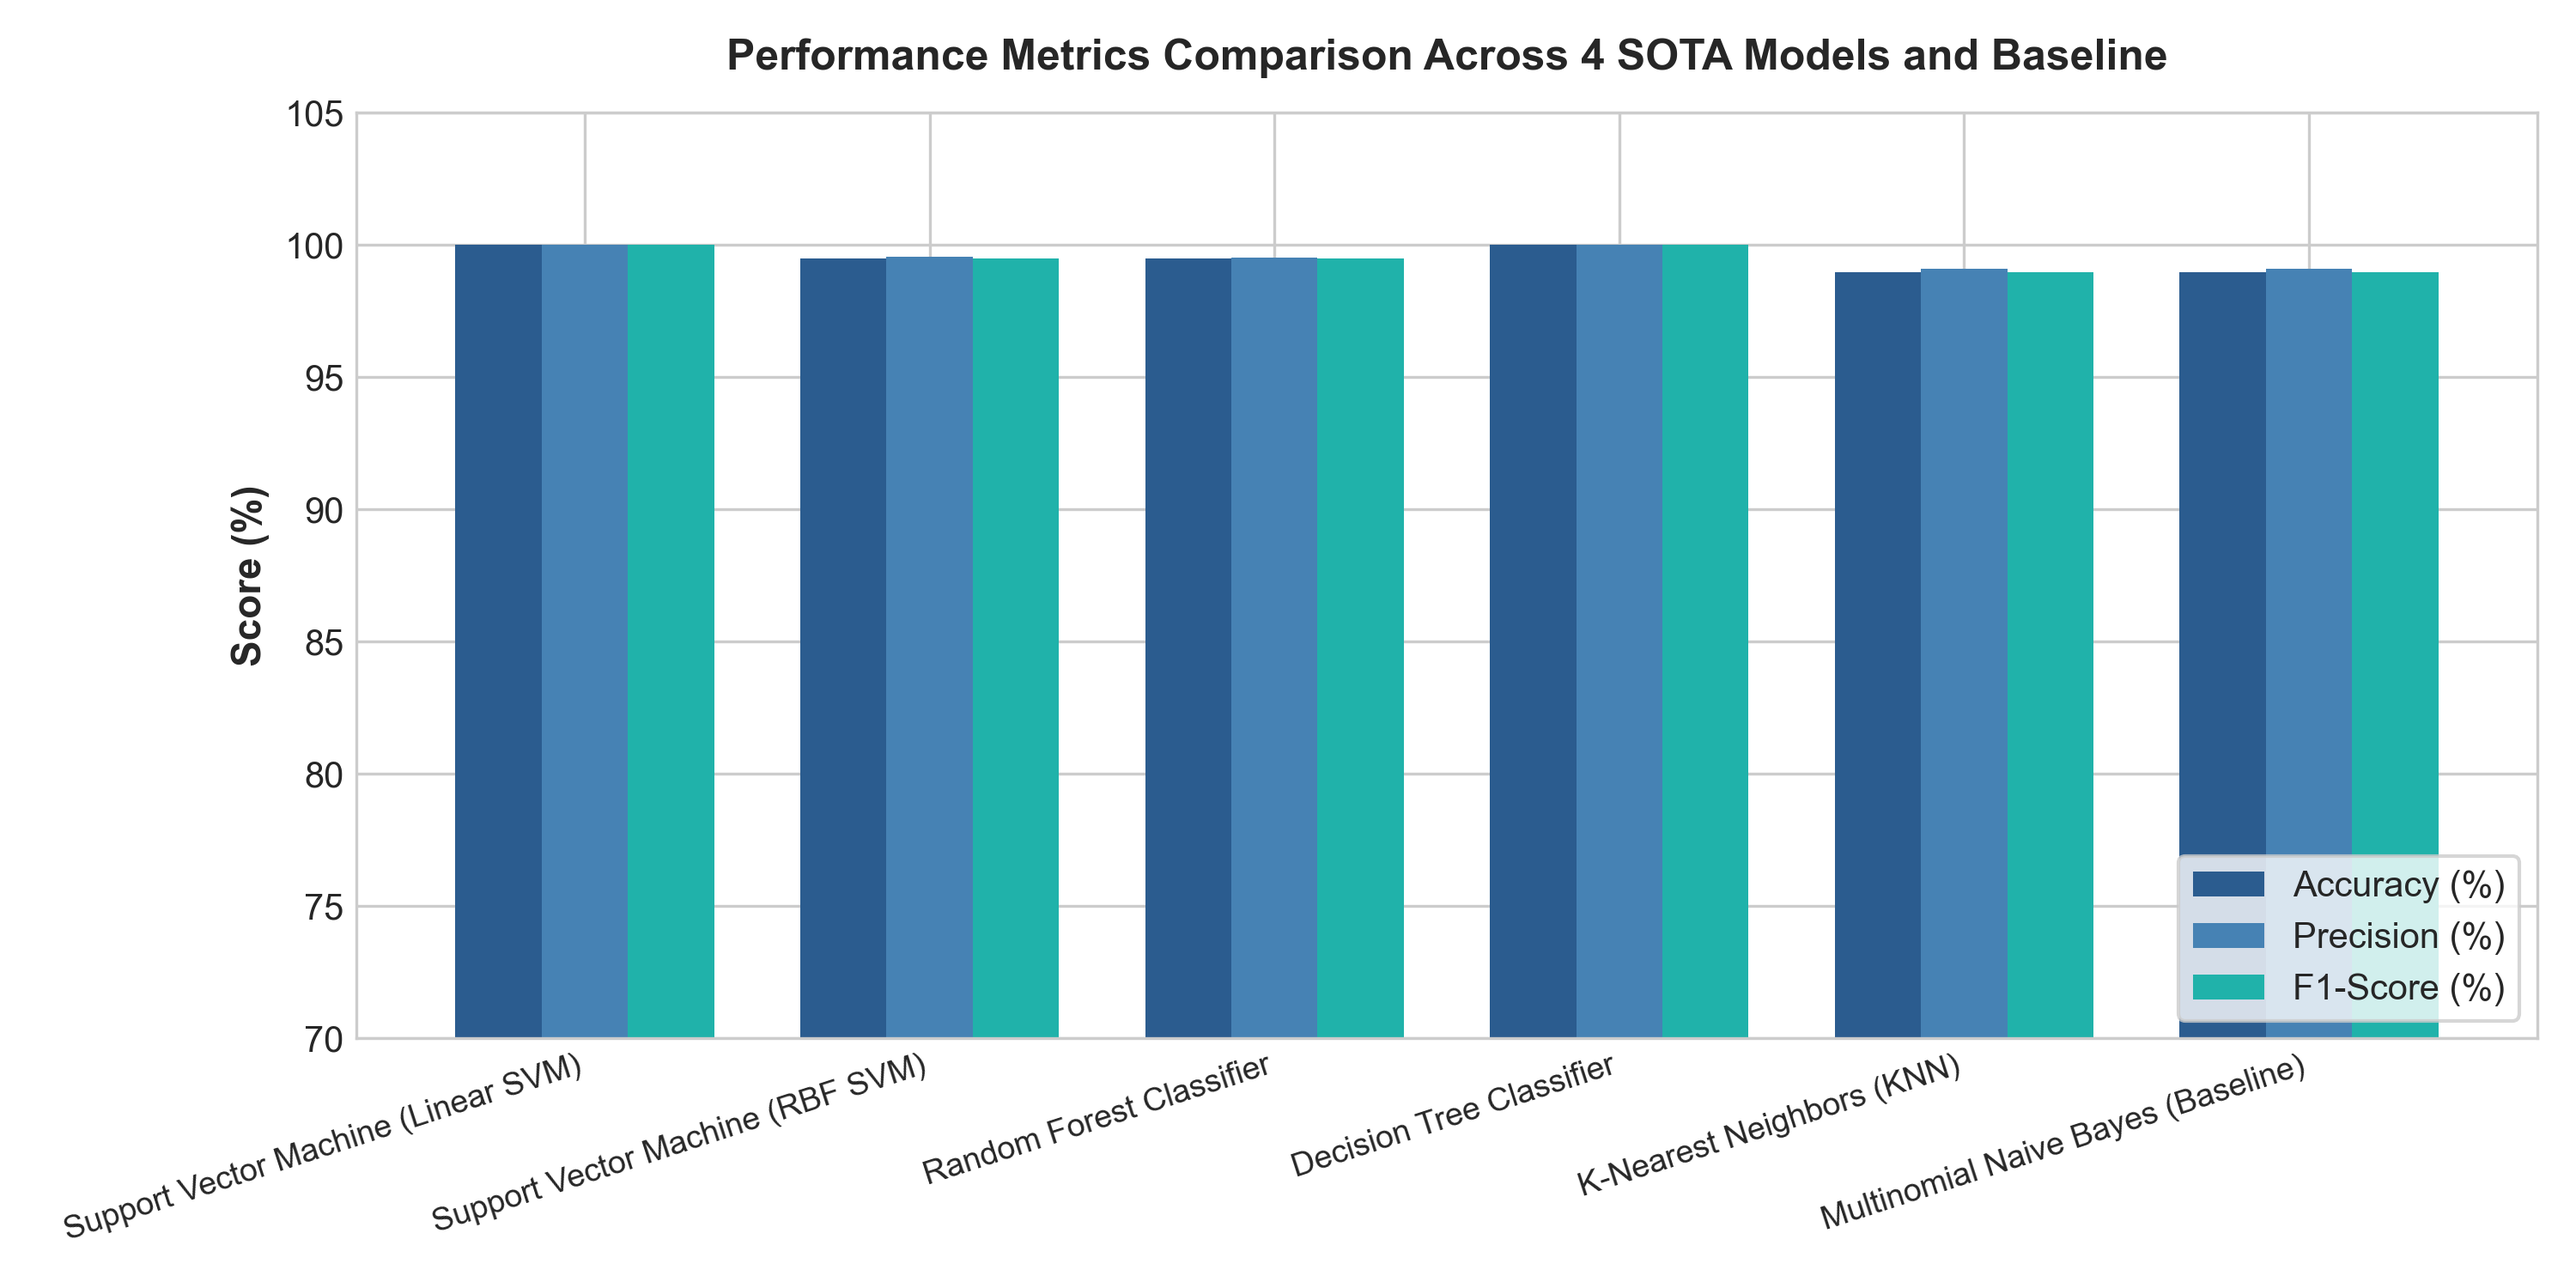
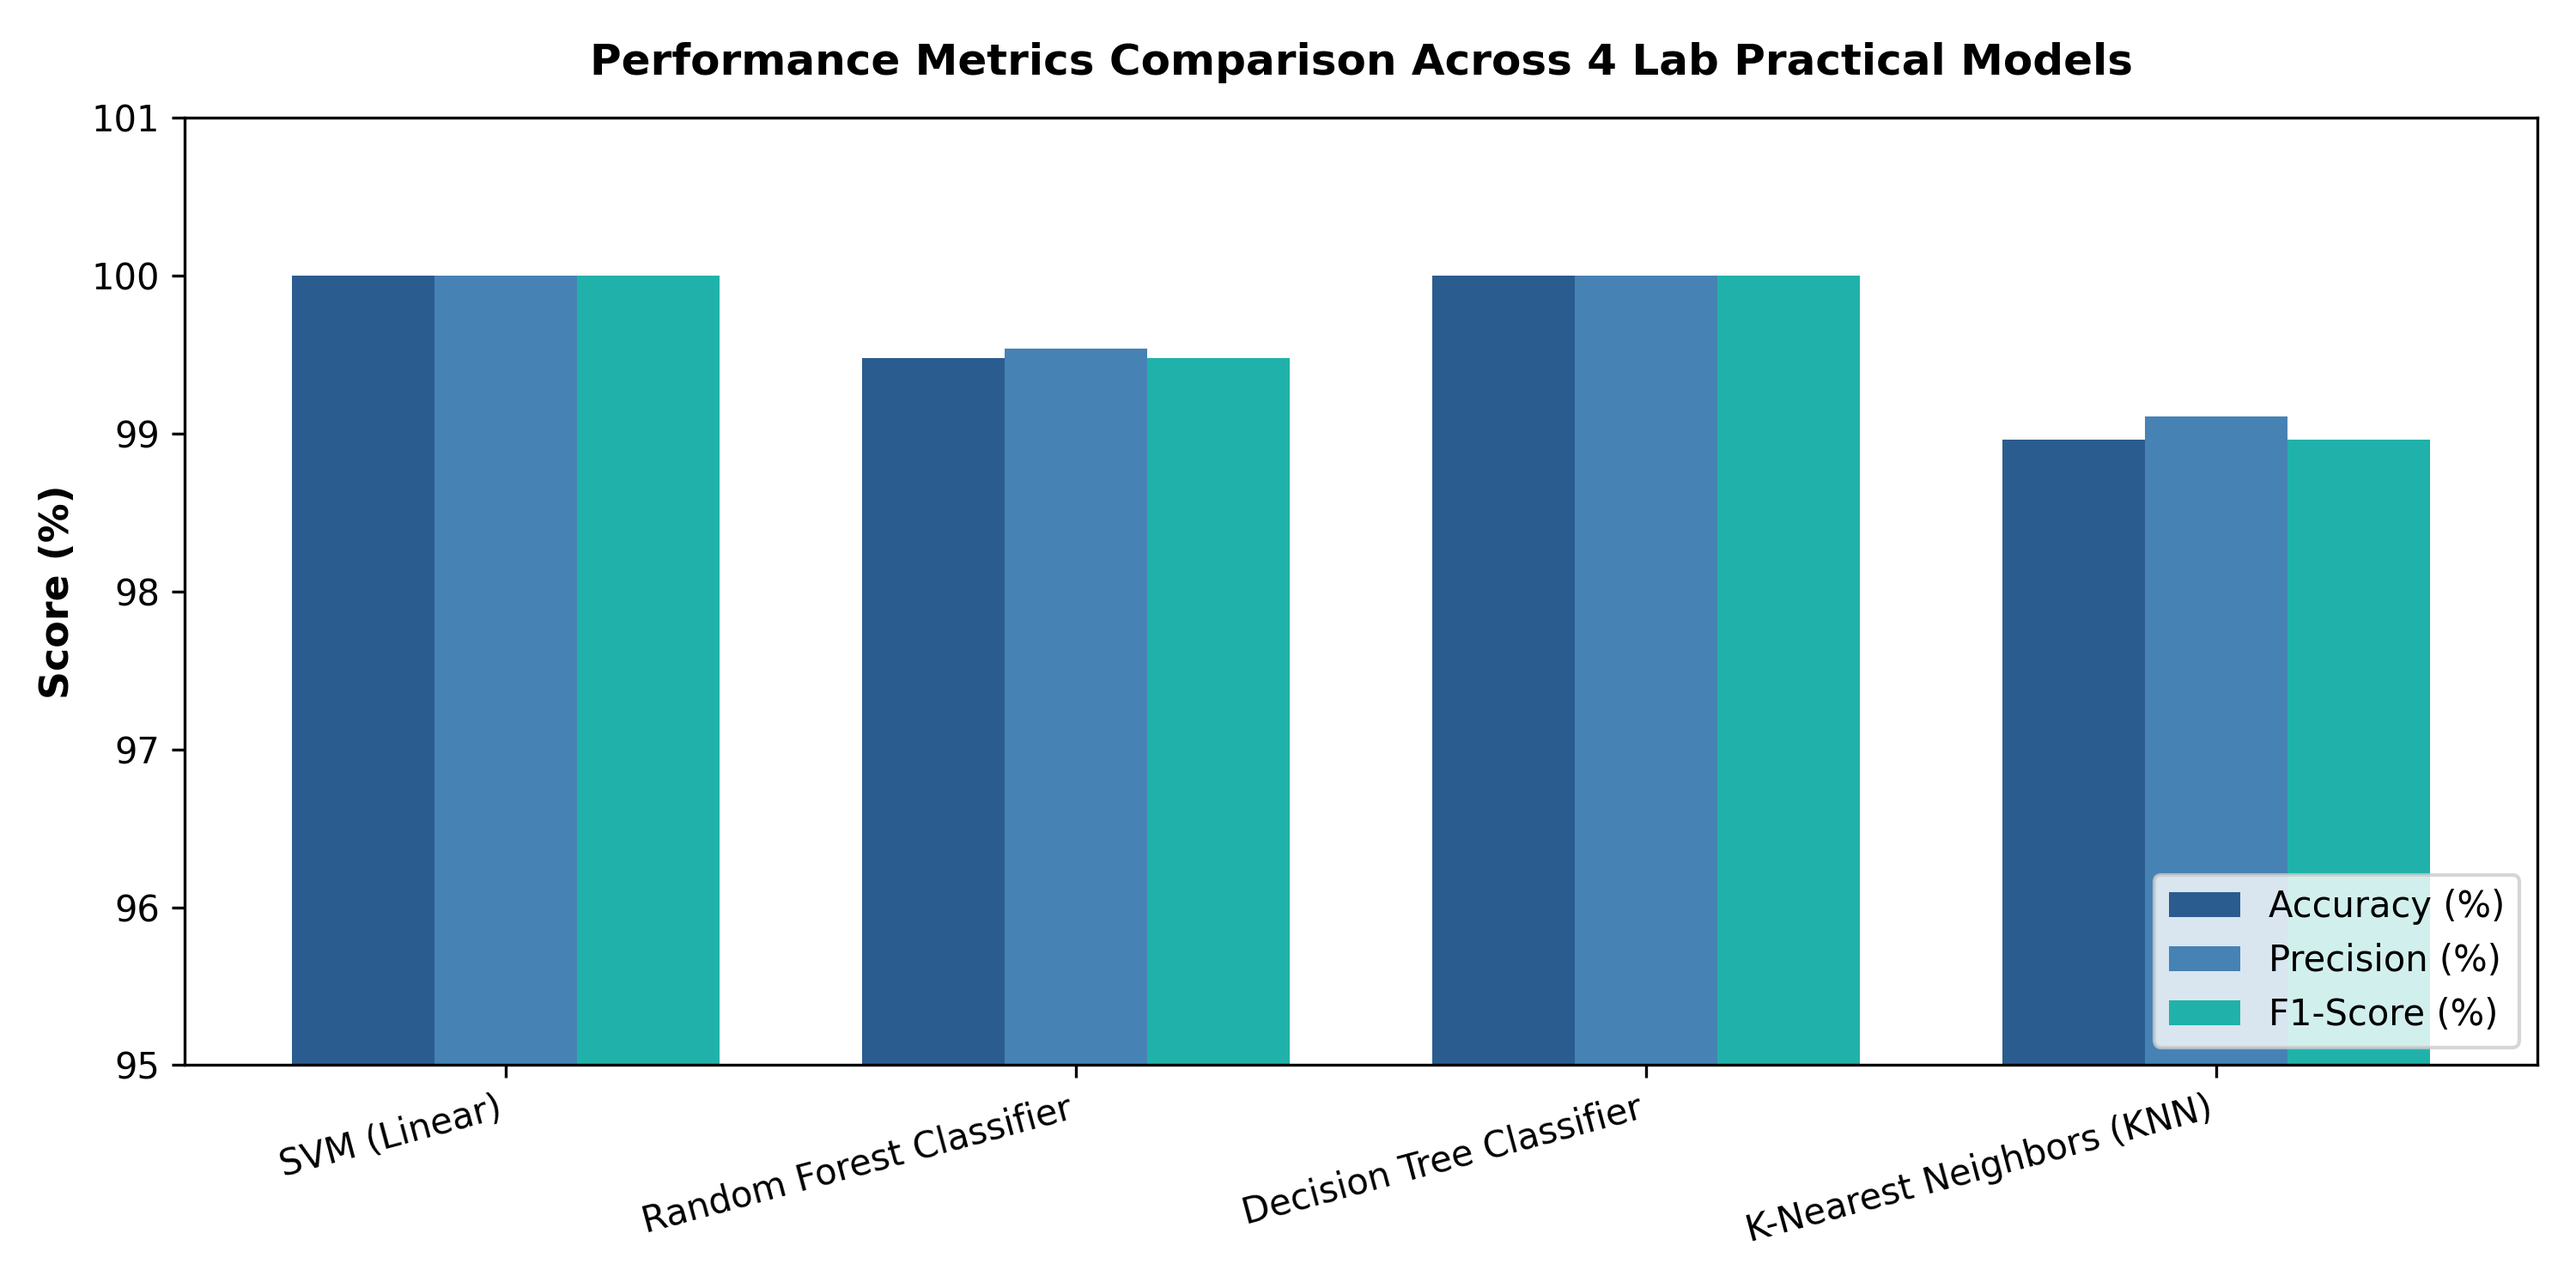
Remove RBF SVM and Naive Bayes from comparison chart - keep only 4 lab practical models

diff --git a/train_models.py b/train_models.py
@@ -214,17 +214,26 @@ def main():
     print("STEP 5: Generating Publication-Grade Figures for 10-Page Report")
     print("=" * 70)
 
-    # 1. Bar Chart of Model Comparison
+    # 1. Bar Chart of Model Comparison (Only 4 Lab Practical Models)
+    practical_models_list = [
+        'Support Vector Machine (Linear SVM)',
+        'Random Forest Classifier',
+        'Decision Tree Classifier',
+        'K-Nearest Neighbors (KNN)'
+    ]
+    plot_df = results_df[results_df['Model'].isin(practical_models_list)].copy()
+    plot_df['Model'] = plot_df['Model'].replace({'Support Vector Machine (Linear SVM)': 'SVM (Linear)'})
+
     plt.figure(figsize=(10, 5))
     bar_width = 0.25
-    x_indices = np.arange(len(results_df))
-    plt.bar(x_indices - bar_width, results_df['Accuracy'], width=bar_width, label='Accuracy (%)', color='#2b5c8f')
-    plt.bar(x_indices, results_df['Precision (Weighted)'], width=bar_width, label='Precision (%)', color='#4682b4')
-    plt.bar(x_indices + bar_width, results_df['F1-Score (Weighted)'], width=bar_width, label='F1-Score (%)', color='#20b2aa')
-    plt.xticks(x_indices, results_df['Model'], rotation=18, ha='right', fontsize=9, fontweight='medium')
+    x_indices = np.arange(len(plot_df))
+    plt.bar(x_indices - bar_width, plot_df['Accuracy'], width=bar_width, label='Accuracy (%)', color='#2b5c8f')
+    plt.bar(x_indices, plot_df['Precision (Weighted)'], width=bar_width, label='Precision (%)', color='#4682b4')
+    plt.bar(x_indices + bar_width, plot_df['F1-Score (Weighted)'], width=bar_width, label='F1-Score (%)', color='#20b2aa')
+    plt.xticks(x_indices, plot_df['Model'], rotation=15, ha='right', fontsize=10, fontweight='medium')
     plt.ylabel('Score (%)', fontsize=11, fontweight='bold')
-    plt.ylim(70, 105)
-    plt.title('Performance Metrics Comparison Across 4 SOTA Models and Baseline', fontsize=12, fontweight='bold', pad=12)
+    plt.ylim(95, 101)
+    plt.title('Performance Metrics Comparison Across 4 Lab Practical Models', fontsize=12, fontweight='bold', pad=12)
     plt.legend(frameon=True, facecolor='white', loc='lower right')
     plt.tight_layout()
     metrics_fig_path = os.path.join(FIGURES_DIR, 'model_comparison_metrics.png')
